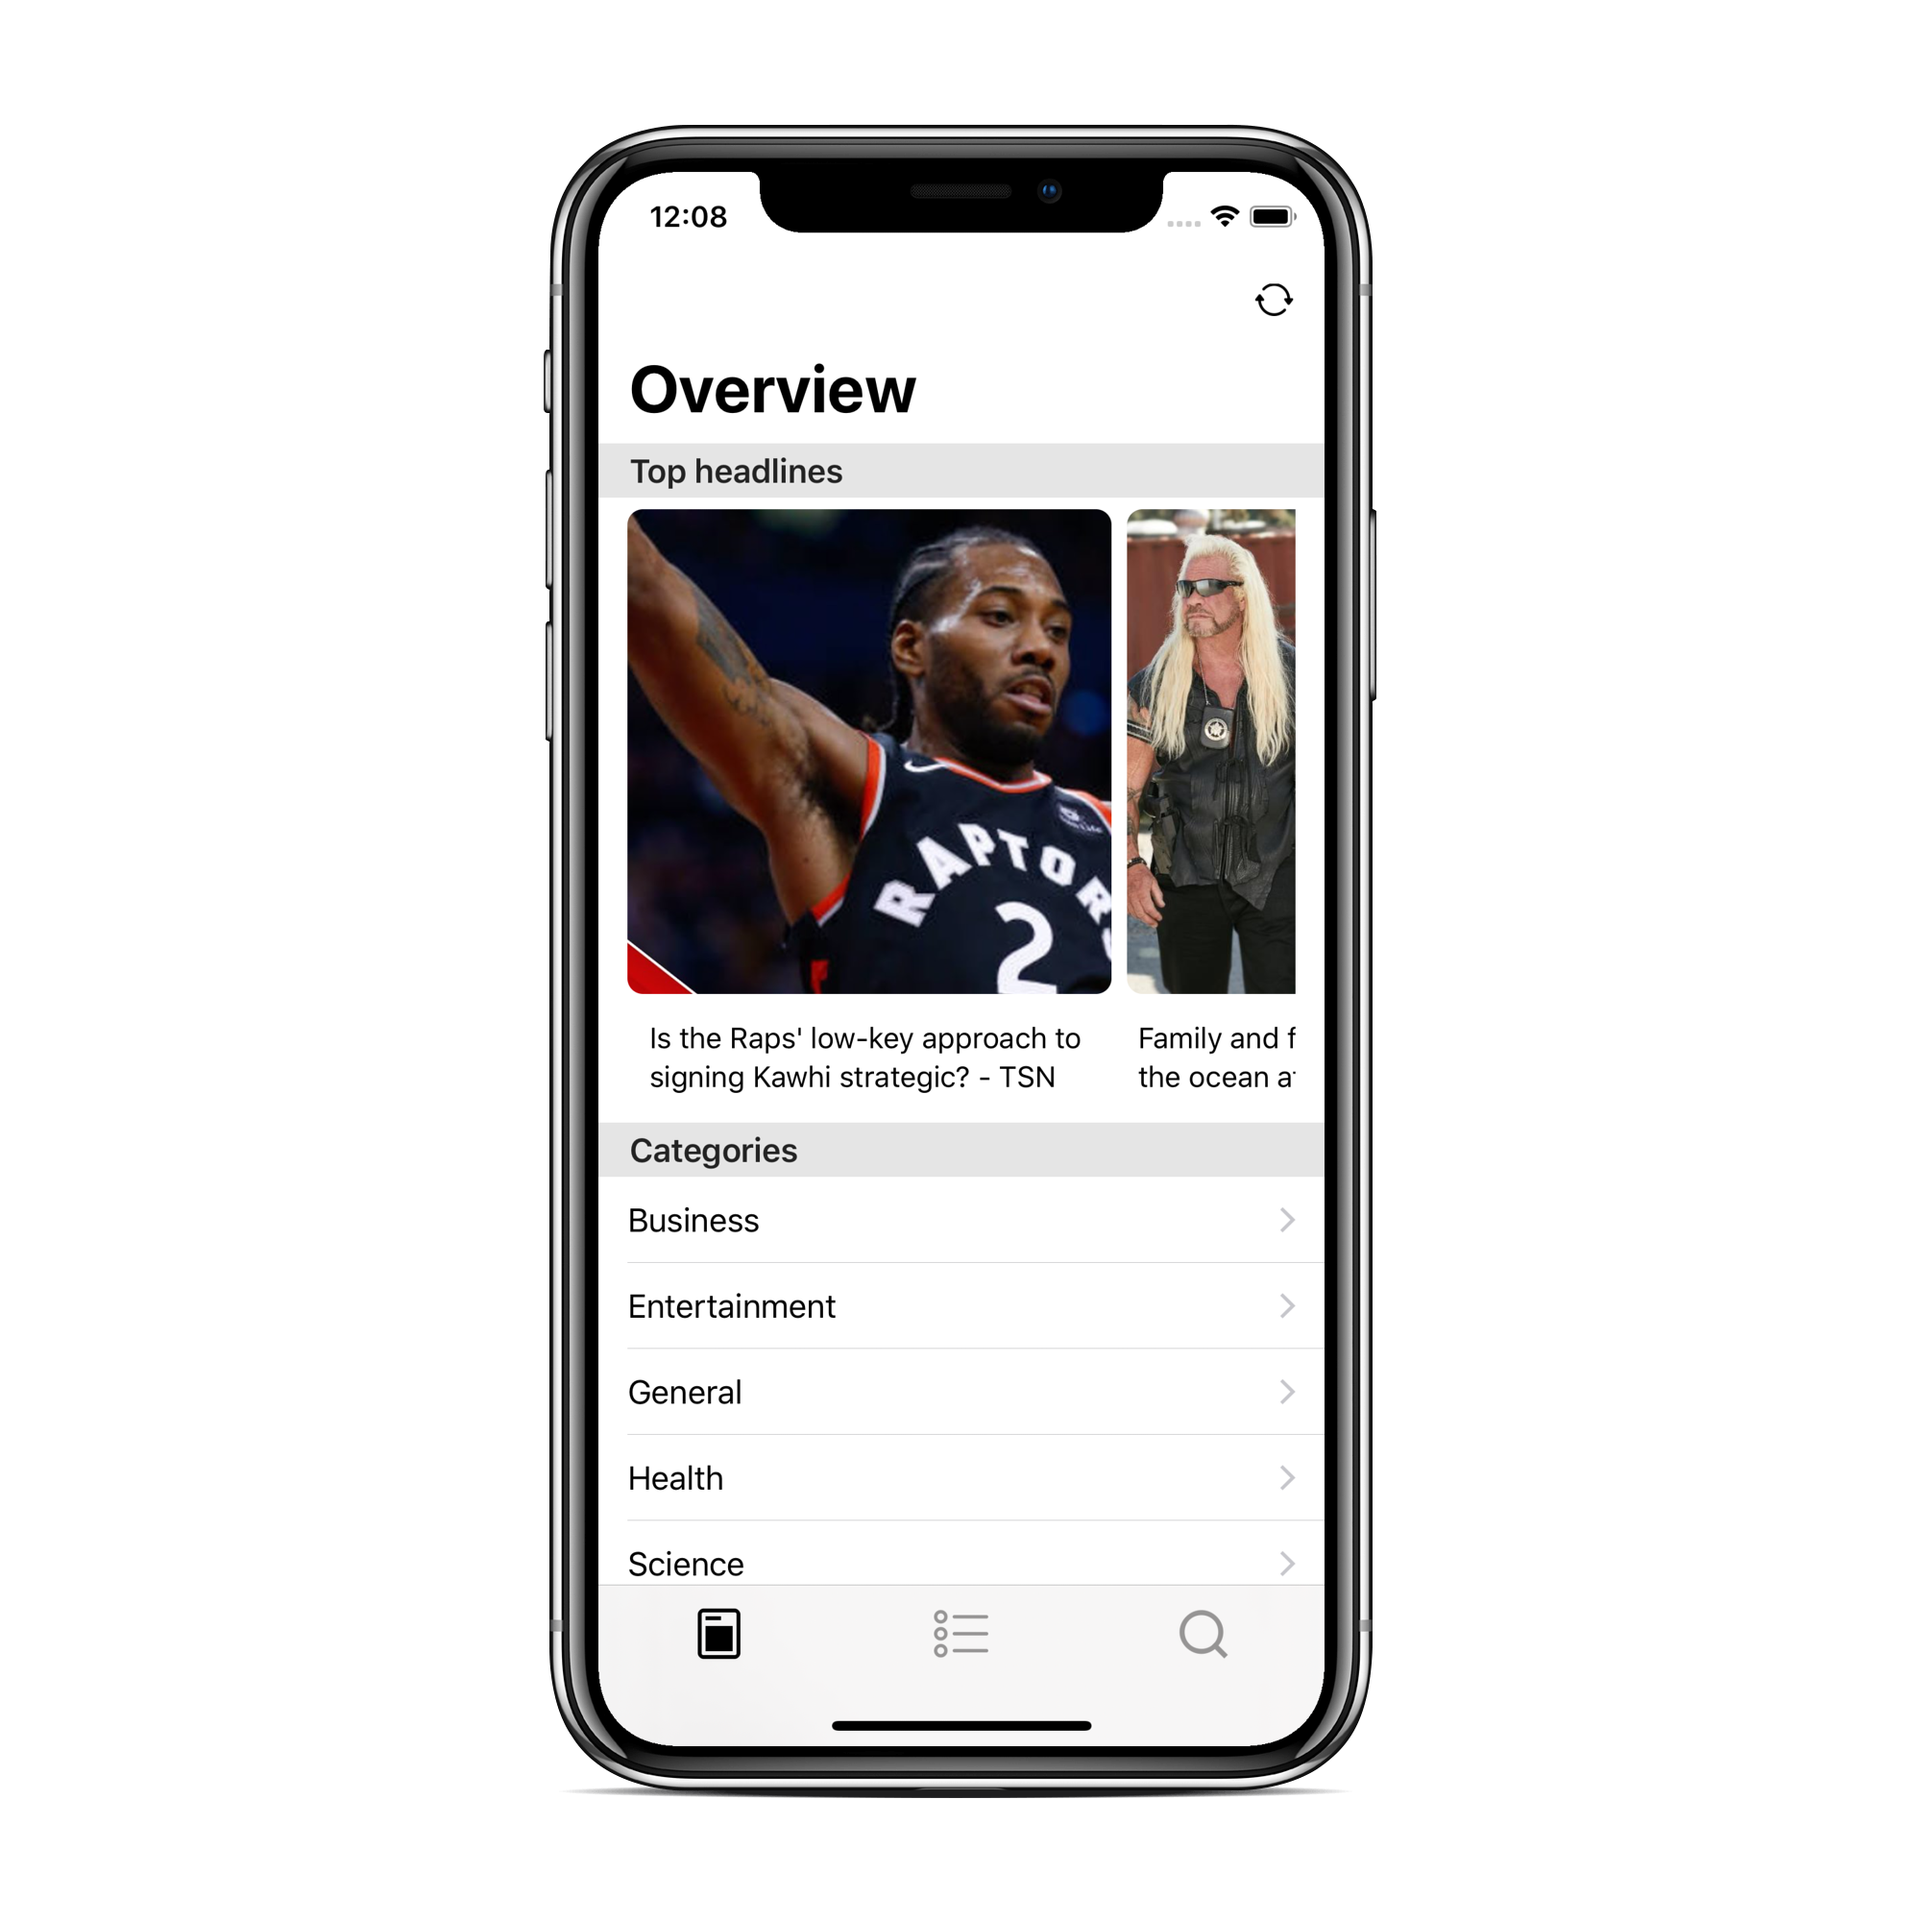
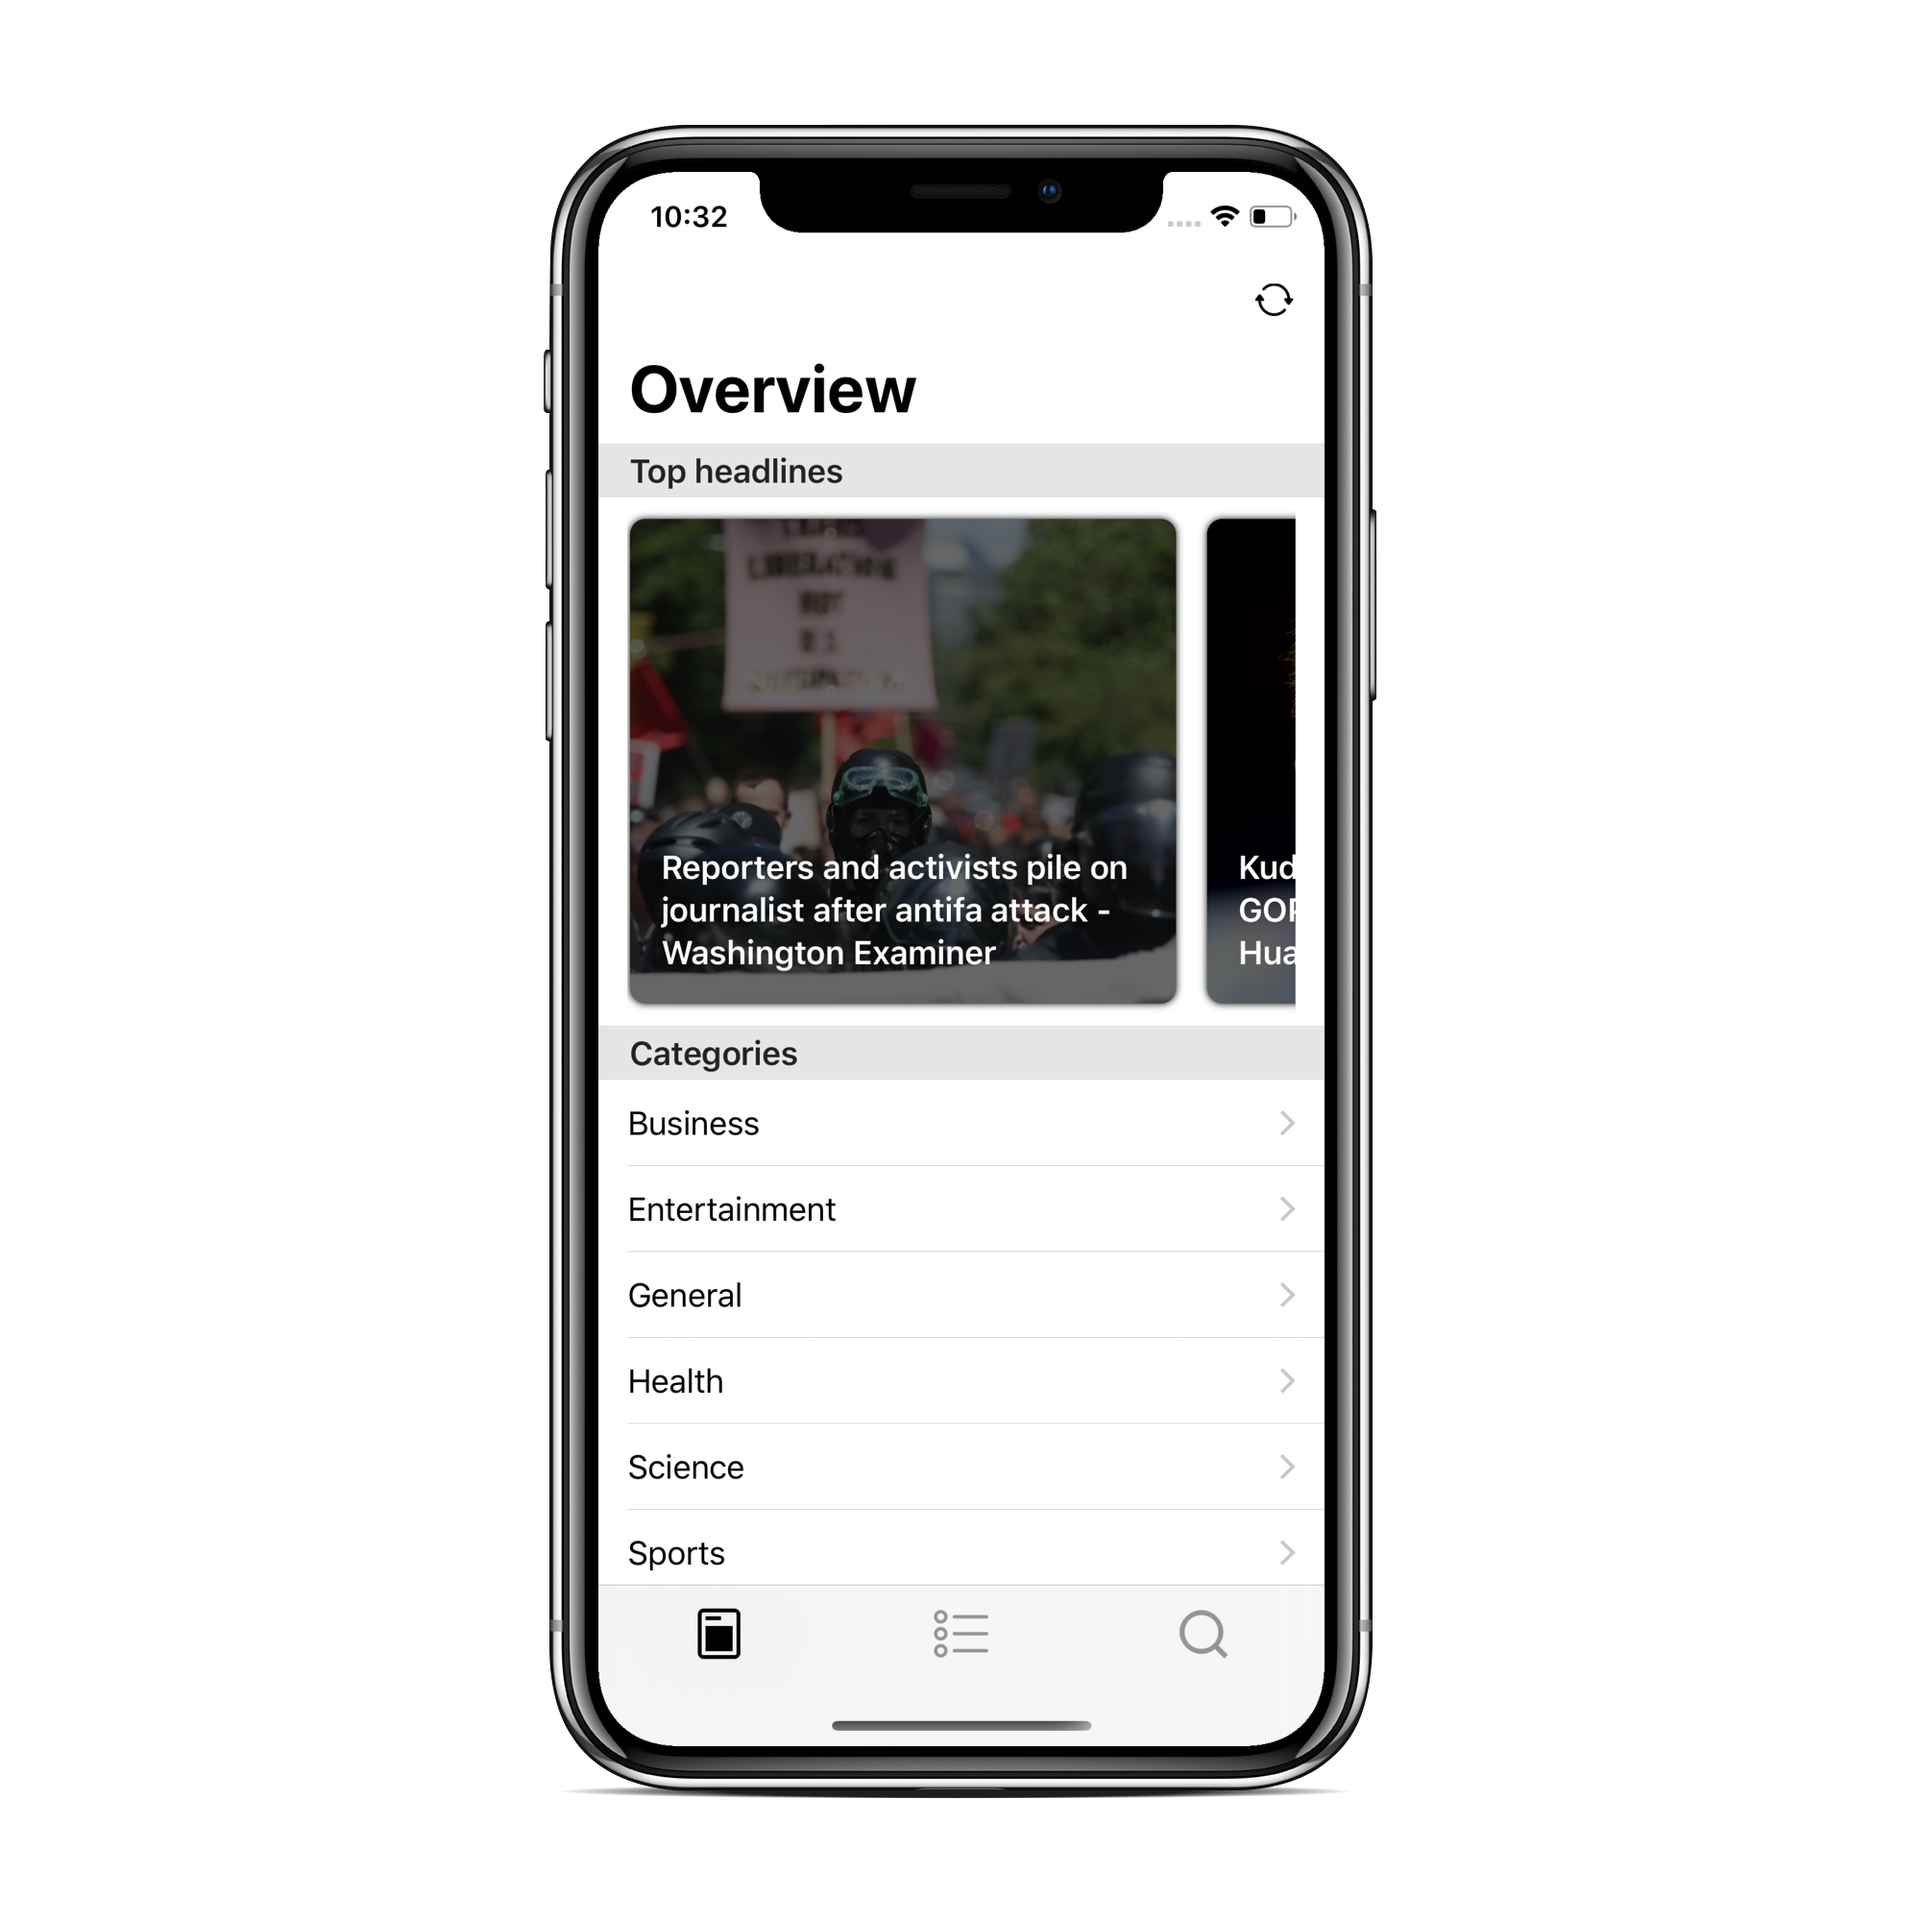
TopHeadlines refactor

diff --git a/NewsApp With SwiftUI Framework/UI/MainView/TopHeadlines/TopHeadlineRow.swift b/NewsApp With SwiftUI Framework/UI/MainView/TopHeadlines/TopHeadlineRow.swift
@@ -16,7 +16,7 @@ struct TopHeadlineRow : View {
     var article: Article
     
     var body: some View {
-        VStack(alignment: .center) {
+        ZStack(alignment: .bottom) {
             Image(uiImage: headlineImage ?? placeholder)
                 .renderingMode(.original)
                 .resizable()
@@ -25,13 +25,23 @@ struct TopHeadlineRow : View {
                 .frame(width: Length(250),
                        height: Length(250),
                        alignment: .center)
-                .cornerRadius(8)
+            
+            Rectangle()
+                .foregroundColor(.black)
+                .opacity(0.6)
             
             Text(verbatim: article.title ?? "")
-                .frame(width: 250, height: 50)
-                .font(.subheadline)
-                .lineLimit(2)
-        }
+                .color(.white)
+                .frame(width: Length(250),
+                       alignment: .bottomLeading)
+                .font(.headline)
+                .lineLimit(nil)
+                .padding()
+            }
+            .cornerRadius(8)
+            .padding([.trailing], 8)
+            .padding([.top], 5)
+            .shadow(color: .black, radius: 2, x: 0, y: 0)
     }
     
     private func downloadWebImage() {

diff --git a/NewsApp With SwiftUI Framework/UI/ArticleRow.swift b/NewsApp With SwiftUI Framework/UI/ArticleRow.swift
@@ -22,7 +22,7 @@ struct ArticleRow : View {
                 .resizable()
                 .scaledToFill()
                 .onAppear(perform: downloadWebImage)
-                .frame(width: Length(UIScreen.main.bounds.width - 16),
+                .frame(width: Length(UIScreen.main.bounds.width - 32),
                        height: Length(250),
                        alignment: .center)
             
@@ -39,7 +39,9 @@ struct ArticleRow : View {
                 .padding()
         }
         .cornerRadius(8)
-        .padding([.leading, .trailing], 8)
+        .padding([.leading, .trailing], 16)
+        .padding([.top, .bottom], 8)
+        .shadow(color: .black, radius: 3, x: 0, y: 0)
     }
     
     private func downloadWebImage() {

diff --git a/NewsApp With SwiftUI Framework/UI/MainView/MainView.swift b/NewsApp With SwiftUI Framework/UI/MainView/MainView.swift
@@ -19,7 +19,7 @@ struct MainView : View {
                 Section(header: Text("Top headlines".localized())
                     .font(.headline)) {
                         TopHeadlinesView(viewModel: viewModel)
-                            .frame(height: 310)
+                            .frame(height: 260)
                 }
                 
                 Section(header: Text("Categories".localized())

diff --git a/NewsApp With SwiftUI Framework/UI/Search/SearchForArticlesView.swift b/NewsApp With SwiftUI Framework/UI/Search/SearchForArticlesView.swift
@@ -30,7 +30,7 @@ struct SearchForArticlesView : View {
                     .frame(height: 32)
                     .background(Color.gray.opacity(0.1))
                     .cornerRadius(8)
-                    .padding([.leading, .trailing], 8)
+                    .padding([.leading, .trailing], 16)
             
                 ArticlesList(articles: viewModel.articles)
             }
